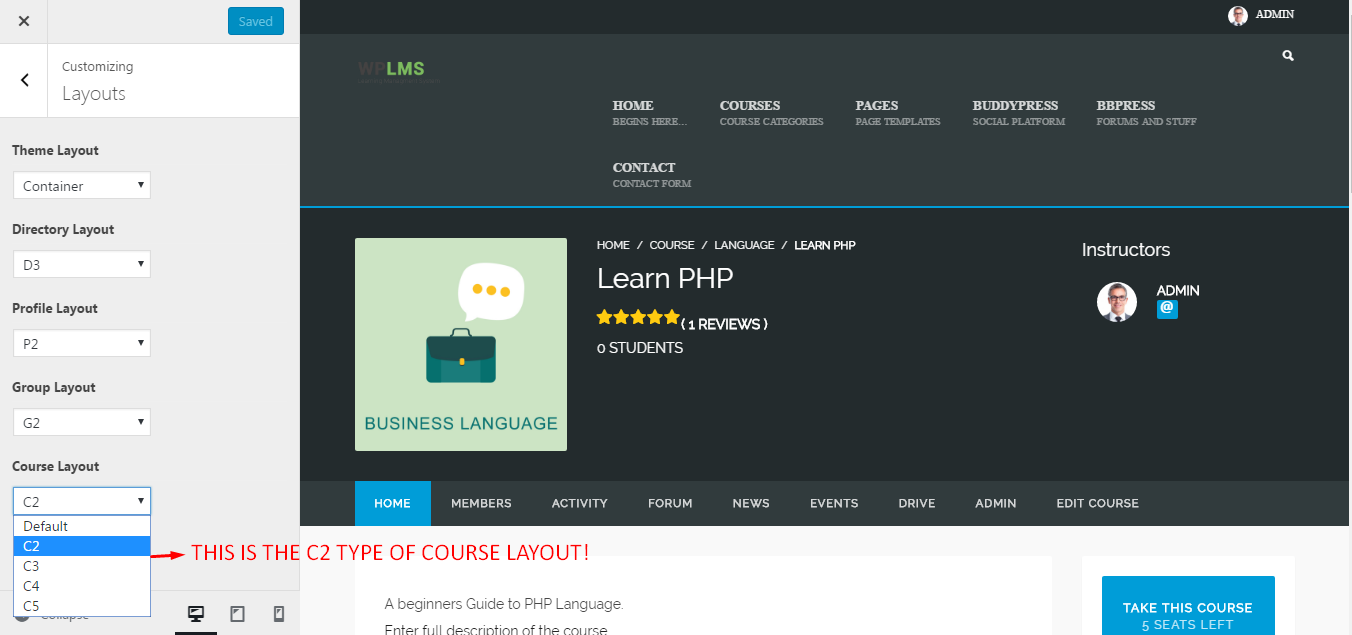
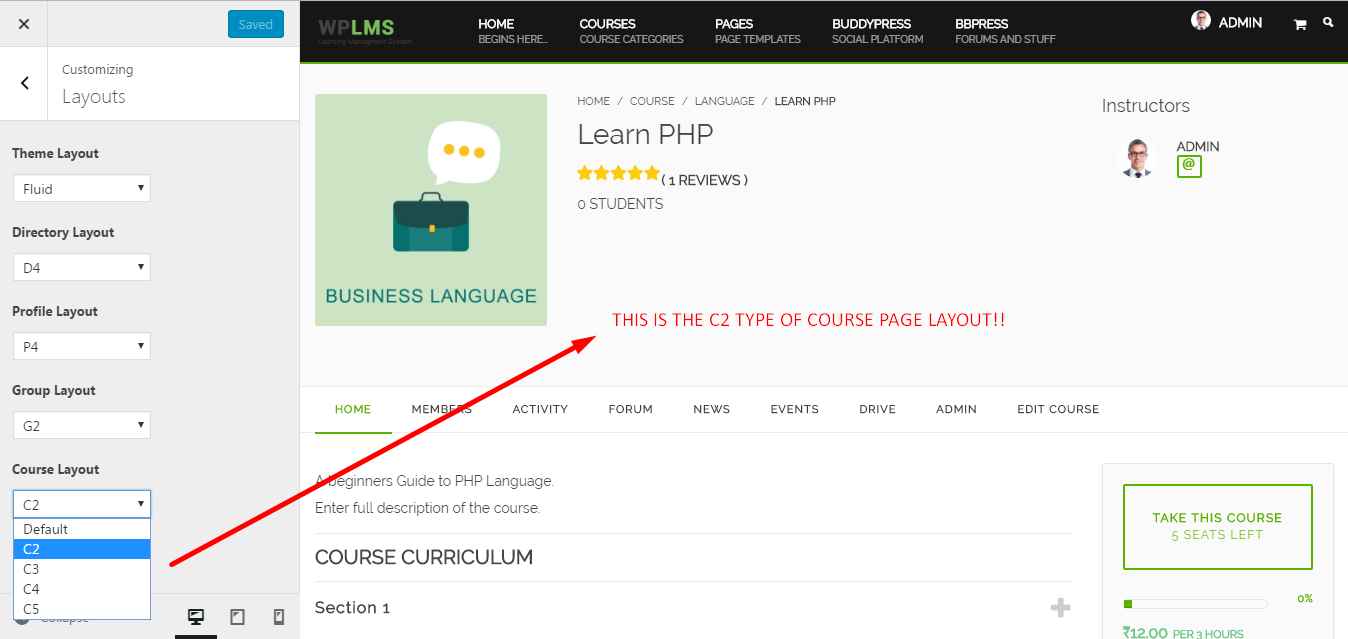
Customiser Final. 10/25/2016.

diff --git a/theme-guide.html b/theme-guide.html
@@ -1137,14 +1137,61 @@ The sidebars are used in almost all the pages in WPLMS. Although sidebars are co
    <li>Menu locations: Set the locations for different menus created from here like top, main, mobile, footer menu.</li>
    <li>You can create a new custom menu  from "Add a menu option" or edit/add items in the existing menu.</li>
    </ul>
-
+  <div class="bs-callout bs-callout-info">
+    <h4>Screenshot Walkthrough</h4>
+    <div class="gallery normal">
+      <a href="images/customise_menu_1.png?resize=1179%2C645" title="Customise Menus">
+      <img src="images/customise_menu_1.png?w=1170" alt="wplms-menu1" width="60" height="33">
+      </a>
+      <a href="images/customise_menu_2.png?resize=1179%2C645" title="Customise Menus">
+      <img src="images/customise_menu_2.png?w=1170" alt="wplms-menu1" width="60" height="33">
+      </a>
+      <a href="images/customise_menu_3.png?resize=1179%2C645" title="Customise Menus">
+      <img src="images/customise_menu_3.png?w=1170" alt="wplms-menu1" width="60" height="33">
+      </a>
+      <a href="images/customise_menu_4.png?resize=1179%2C645" title="Customise Menus">
+      <img src="images/customise_menu_4.png?w=1170" alt="wplms-menu1" width="60" height="33">
+      </a>
+      <a href="images/customise_menu_5.png?resize=1179%2C645" title="Customise Menus">
+      <img src="images/customise_menu_5.png?w=1170" alt="wplms-menu1" width="60" height="33">
+      </a>
+      <a href="images/customise_menu_6.png?resize=1179%2C645" title="Customise Menus">
+      <img src="images/customise_menu_6.png?w=1170" alt="wplms-menu1" width="60" height="33">
+      </a>
+      <a href="images/customise_menu_7.png?resize=1179%2C645" title="Customise Menus">
+      <img src="images/customise_menu_7.png?w=1170" alt="wplms-menu1" width="60" height="33">
+      </a>
+      <a href="images/customise_menu_8.png?resize=1179%2C645" title="Customise Menus">
+      <img src="images/customise_menu_8.png?w=1170" alt="wplms-menu1" width="60" height="33">
+      </a>
+    </div>
+  </div>
   <h3 id="customiser-widgets">Widgets</h3>
   <p> The option is used to customize the widgets. The widgets set on the page opened in customiser will show in the 
   customiser sidebar. You can also set widgets from the backend, go to wp-admin->appearance->Widgets<br /></p>
   <ul>
    <li>Widgets</li>
    </ul>
-
+  <div class="bs-callout bs-callout-info">
+    <h4>Screenshot Walkthrough</h4>
+    <div class="gallery normal">
+      <a href="images/widgets_1.png?resize=1179%2C645" title="Customise Widgets">
+      <img src="images/widgets_1.png?w=1170" alt="wplms-menu1" width="60" height="33">
+      </a>
+      <a href="images/widgets_2.png?resize=1179%2C645" title="Customise Widgets">
+      <img src="images/widgets_2.png?w=1170" alt="wplms-menu1" width="60" height="33">
+      </a>
+      <a href="images/widgets_3.png?resize=1179%2C645" title="Customise Widgets">
+      <img src="images/widgets_3.png?w=1170" alt="wplms-menu1" width="60" height="33">
+      </a>
+      <a href="images/widgets_4.png?resize=1179%2C645" title="Customise Widgets">
+      <img src="images/widgets_4.png?w=1170" alt="wplms-menu1" width="60" height="33">
+      </a>
+      <a href="images/widgets_5.png?resize=1179%2C645" title="Customise Widgets">
+      <img src="images/widgets_5.png?w=1170" alt="wplms-menu1" width="60" height="33">
+      </a>
+    </div>
+  </div>
   <h3 id="customiser-staticfrontpage">Static Front Page</h3>
   <p> Option for setting front page and posts page <br /></p>
   <ul>
@@ -1154,7 +1201,14 @@ The sidebars are used in almost all the pages in WPLMS. Although sidebars are co
    <li>Front page: Select the home page of the site from this option.</li>
    <li>Posts page: Select the posts page or Blog page from this option. We recommend setting this value as blank as blog templates add their custom styling as per their design.</li>
    </ul>
-
+     <div class="bs-callout bs-callout-info">
+    <h4>Screenshot Walkthrough</h4>
+    <div class="gallery normal">
+      <a href="images/static_front_page.png?resize=1179%2C645" title="Static Front Page">
+      <img src="images/static_front_page.png?w=1170" alt="wplms-menu1" width="60" height="33">
+      </a>
+    </div>
+  </div>
   <h3 id="customiser-theme">Theme</h3>
   <p> This is the most important section in the theme customiser. In this option you can Theme skin, Theme primary color, Theme primary text color: <br /></p>
   <ul>
@@ -1203,11 +1257,11 @@ The sidebars are used in almost all the pages in WPLMS. Although sidebars are co
   <div class="bs-callout bs-callout-info">
     <h4>Theme Layout Screenshot Walkthrough</h4>
     <div class="gallery normal">
-      <a href="images/layouts.png?resize=1179%2C645" title="Change Layout">
-      <img src="images/layouts.png?w=1170" alt="wplms-menu1" width="60" height="33">
-      </a>
-      <a href="images/boxed_layout.png?resize=1179%2C645" title="Boxed Layout">
+      <a href="images/boxed_layout.png?resize=1179%2C645" title="Change Layout">
       <img src="images/boxed_layout.png?w=1170" alt="wplms-menu1" width="60" height="33">
+      </a>
+      <a href="images/fluid_layout.png?resize=1179%2C645" title="Fluid Layout">
+      <img src="images/fluid_layout.png?w=1170" alt="wplms-menu1" width="60" height="33">
       </a>
     </div>
   </div>
@@ -1251,8 +1305,17 @@ The sidebars are used in almost all the pages in WPLMS. Although sidebars are co
   <div class="bs-callout bs-callout-info">
     <h4>Group Layout Screenshot Walkthrough</h4>
     <div class="gallery normal">
-      <a href="images/layouts.png?resize=1179%2C645" title="Change Layout">
-      <img src="images/layouts.png?w=1170" alt="wplms-menu1" width="60" height="33">
+      <a href="images/group_layout_1.png?resize=1179%2C645" title="Change Group Layout">
+      <img src="images/group_layout_1.png?w=1170" alt="wplms-menu1" width="60" height="33">
+      </a>
+      <a href="images/group_layout_2.png?resize=1179%2C645" title="Change Group Layout">
+      <img src="images/group_layout_2.png?w=1170" alt="wplms-menu1" width="60" height="33">
+      </a>
+      <a href="images/group_layout_3.png?resize=1179%2C645" title="Change Group Layout">
+      <img src="images/group_layout_3.png?w=1170" alt="wplms-menu1" width="60" height="33">
+      </a>
+      <a href="images/group_layout_4.png?resize=1179%2C645" title="Change Group Layout">
+      <img src="images/group_layout_4.png?w=1170" alt="wplms-menu1" width="60" height="33">
       </a>
     </div>
   </div>
@@ -1271,8 +1334,12 @@ The sidebars are used in almost all the pages in WPLMS. Although sidebars are co
       <a href="images/course_layout_4.png?resize=1179%2C645" title="Change Course Layout 4">
       <img src="images/course_layout_4.png?w=1170" alt="wplms-menu1" width="60" height="33">
       </a>
+      <a href="images/course_layout_5.png?resize=1179%2C645" title="Change Course Layout 5">
+      <img src="images/course_layout_5.png?w=1170" alt="wplms-menu1" width="60" height="33">
+      </a>
     </div>
   </div>
+
    <h3 id="customiser-header">Header</h3>
   <p> All settings in this section are related to the header of the theme : <br /></p>
   <ul>
@@ -1294,7 +1361,75 @@ The sidebars are used in almost all the pages in WPLMS. Although sidebars are co
    <li>Login drop light text color: It sets the text color in the top part of the login drop.</li>
    <li>Login drop dark text color: It sets the text color in the bottom part of the login drop.</li>
    </ul>
-
+  <div class="bs-callout bs-callout-info">
+    <h4>Header Styles Screenshot Walkthrough</h4>
+    <div class="gallery normal">
+      <a href="images/header_style_1.png?resize=1179%2C645" title="Header Style 1">
+      <img src="images/header_style_1.png?w=1170" alt="wplms-menu1" width="60" height="33">
+      </a>
+      <a href="images/header_style_2.png?resize=1179%2C645" title="Header Style 2">
+      <img src="images/header_style_2.png?w=1170" alt="wplms-menu1" width="60" height="33">
+      </a>
+      <a href="images/header_style_3.png?resize=1179%2C645" title="Header Style 3">
+      <img src="images/header_style_3.png?w=1170" alt="wplms-menu1" width="60" height="33">
+      </a>
+      <a href="images/header_style_4.png?resize=1179%2C645" title="Header Style 4">
+      <img src="images/header_style_4.png?w=1170" alt="wplms-menu1" width="60" height="33">
+      </a>
+      <a href="images/header_style_5.png?resize=1179%2C645" title="Header Style 5">
+      <img src="images/header_style_5.png?w=1170" alt="wplms-menu1" width="60" height="33">
+      </a>
+      <a href="images/header_style_6.png?resize=1179%2C645" title="Header Style 6">
+      <img src="images/header_style_6.png?w=1170" alt="wplms-menu1" width="60" height="33">
+      </a>
+      <a href="images/header_style_7.png?resize=1179%2C645" title="Header Style 7">
+      <img src="images/header_style_7.png?w=1170" alt="wplms-menu1" width="60" height="33">
+      </a>
+      <a href="images/header_style_8.png?resize=1179%2C645" title="Header Style 8">
+      <img src="images/header_style_8.png?w=1170" alt="wplms-menu1" width="60" height="33">
+      </a>
+      <a href="images/header_style_9.png?resize=1179%2C645" title="Header Style 9">
+      <img src="images/header_style_9.png?w=1170" alt="wplms-menu1" width="60" height="33">
+      </a>
+    </div>
+  </div>
+  <div class="bs-callout bs-callout-info">
+    <h4>Login Styles Screenshot Walkthrough</h4>
+    <div class="gallery normal">
+      <a href="images/customise_login_default.png?resize=1179%2C645" title="Login Style Default">
+      <img src="images/customise_login_default.png?w=1170" alt="wplms-menu1" width="60" height="33">
+      </a>
+      <a href="images/customise_login_1.png?resize=1179%2C645" title="Login Style 1">
+      <img src="images/customise_login_1.png?w=1170" alt="wplms-menu1" width="60" height="33">
+      </a>
+      <a href="images/customise_login_2.png?resize=1179%2C645" title="Login Style 2">
+      <img src="images/customise_login_2.png?w=1170" alt="wplms-menu1" width="60" height="33">
+      </a>
+      <a href="images/customise_login_3.png?resize=1179%2C645" title="Login Style 3">
+      <img src="images/customise_login_3.png?w=1170" alt="wplms-menu1" width="60" height="33">
+      </a>
+      <a href="images/customise_login_4.png?resize=1179%2C645" title="Login Style 4">
+      <img src="images/customise_login_4.png?w=1170" alt="wplms-menu1" width="60" height="33">
+      </a>
+    </div>
+  </div>
+  <div class="bs-callout bs-callout-info">
+    <h4>Header Settings Screenshot Walkthrough</h4>
+    <div class="gallery normal">
+      <a href="images/header_customise_1.png?resize=1179%2C645" title="Header Customise Settings">
+      <img src="images/header_customise_1.png?w=1170" alt="wplms-menu1" width="60" height="33">
+      </a>
+      <a href="images/header_customise_2.png?resize=1179%2C645" title="Header Customise Settings">
+      <img src="images/header_customise_2.png?w=1170" alt="wplms-menu1" width="60" height="33">
+      </a>
+      <a href="images/header_customise_3.png?resize=1179%2C645" title="Header Customise Settings">
+      <img src="images/header_customise_3.png?w=1170" alt="wplms-menu1" width="60" height="33">
+      </a>
+      <a href="images/header_customise_4.png?resize=1179%2C645" title="Header Customise Settings">
+      <img src="images/header_customise_4.png?w=1170" alt="wplms-menu1" width="60" height="33">
+      </a>
+    </div>
+  </div>
    <h3 id="customiser-typography">Typography</h3>
   <p> All the typogrpahy in the theme is maintained from this option <br /></p>
   <ul>
@@ -1326,15 +1461,28 @@ The sidebars are used in almost all the pages in WPLMS. Although sidebars are co
       <a href="images/typography_2.png?resize=1179%2C645" title="Change Typography">
       <img src="images/typography_2.png?w=1170" alt="wplms-menu1" width="60" height="33">
       </a>
+      <a href="images/typography_font_manager.png?resize=1179%2C645" title="Typography Font Manager Admin Panel">
+      <img src="images/typography_font_manager.png?w=1170" alt="wplms-menu1" width="60" height="33">
+      </a>
       <a href="images/typography_3.png?resize=1179%2C645" title="Change Typography">
       <img src="images/typography_3.png?w=1170" alt="wplms-menu1" width="60" height="33">
+      </a>
+      <a href="images/typography_4.png?resize=1179%2C645" title="Change Typography">
+      <img src="images/typography_4.png?w=1170" alt="wplms-menu1" width="60" height="33">
       </a>
       <a href="images/typography_5.png?resize=1179%2C645" title="Change Typography">
       <img src="images/typography_5.png?w=1170" alt="wplms-menu1" width="60" height="33">
       </a>
-      <a href="images/typography_font_manager.png?resize=1179%2C645" title="Typography Font Manager Admin Panel">
-      <img src="images/typography_font_manager.png?w=1170" alt="wplms-menu1" width="60" height="33">
+      <a href="images/typography_6.png?resize=1179%2C645" title="Change Typography">
+      <img src="images/typography_7.png?w=1170" alt="wplms-menu1" width="60" height="33">
       </a>
+      <a href="images/typography_7.png?resize=1179%2C645" title="Change Typography">
+      <img src="images/typography_7.png?w=1170" alt="wplms-menu1" width="60" height="33">
+      </a>
+      <a href="images/typography_8.png?resize=1179%2C645" title="Change Typography">
+      <img src="images/typography_8.png?w=1170" alt="wplms-menu1" width="60" height="33">
+      </a>
+      
     </div>
   </div>
   If the select fonts Dropdown for the live themes editor in the Font Manager section of the Admin Panel is Empty : 
